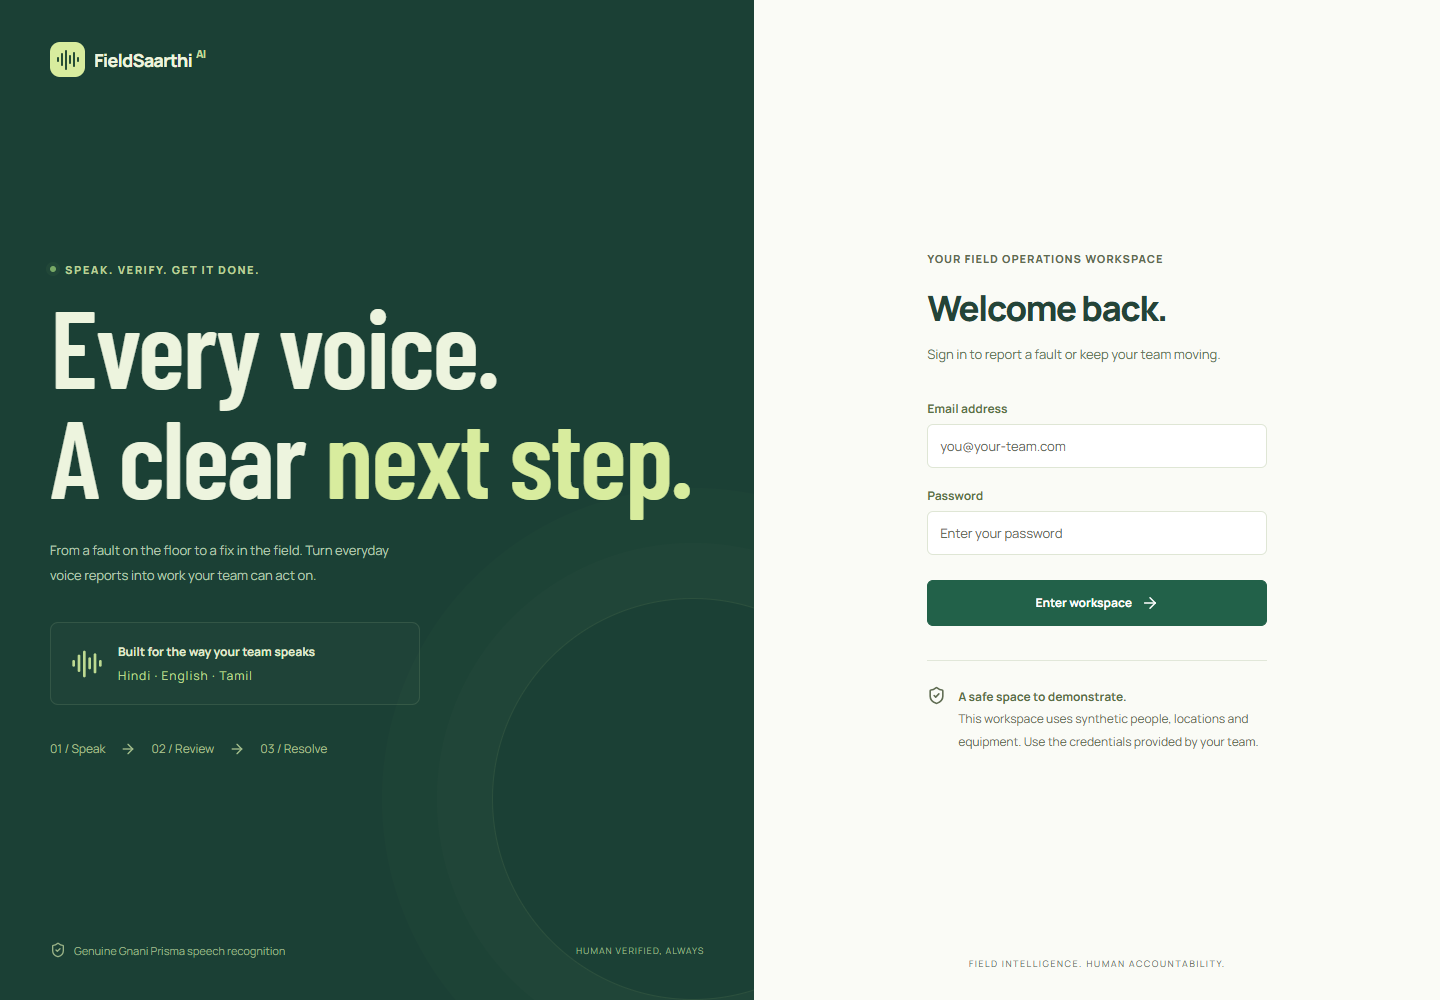
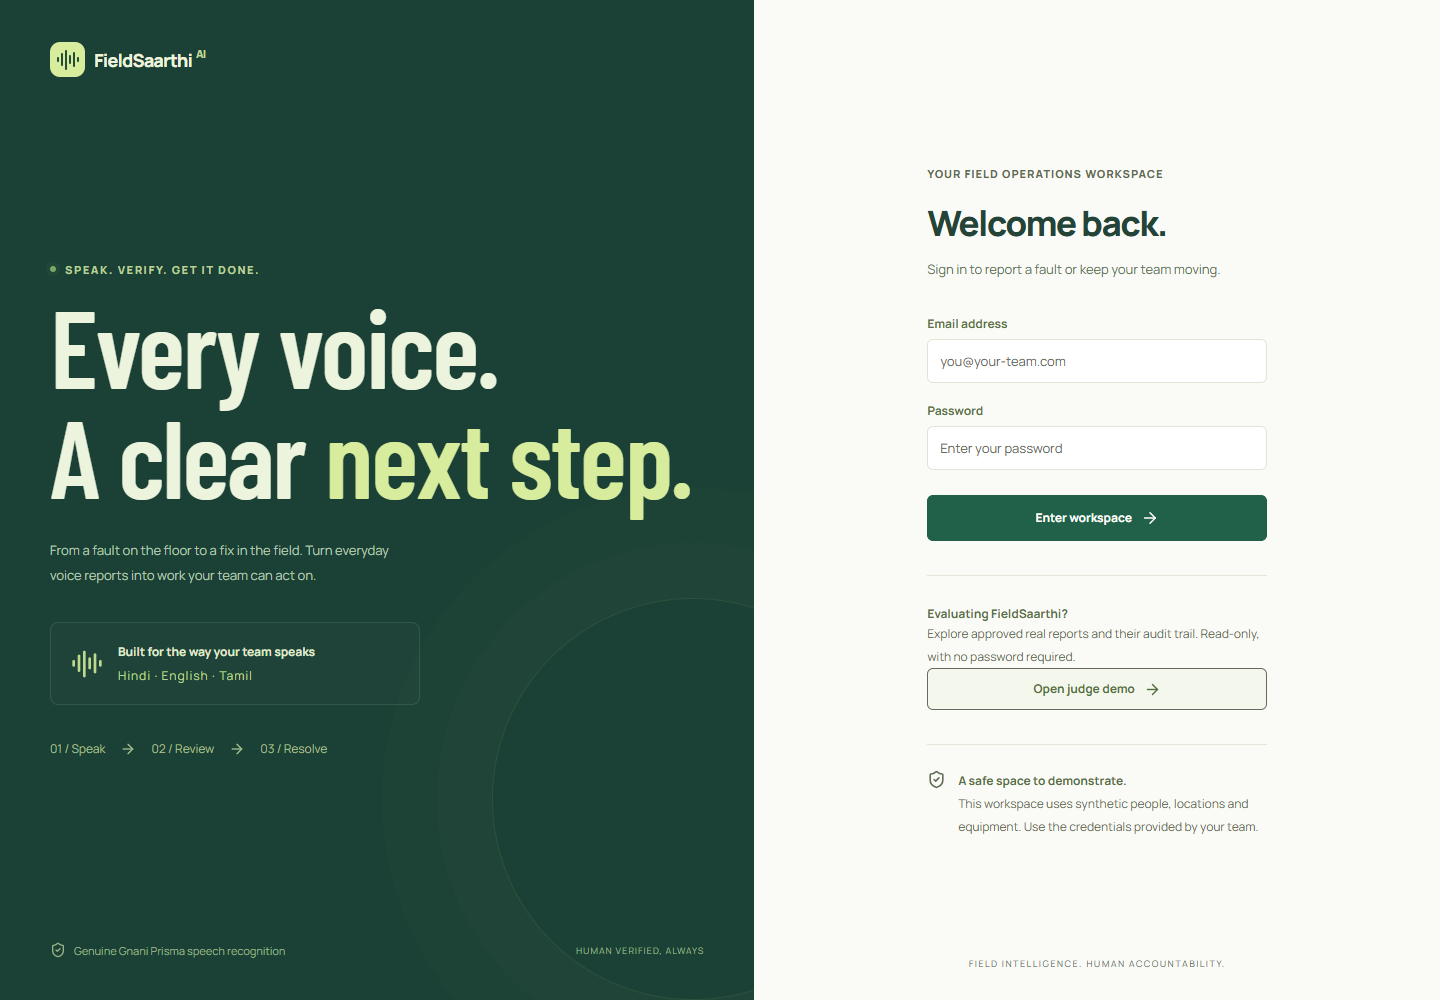
docs(NFR-08): publish measured judge-readiness verification and honest remaining gates

diff --git a/docs/evidence/judge-readiness.md b/docs/evidence/judge-readiness.md
@@ -1,0 +1,56 @@
+# Judge readiness completion evidence
+
+Baseline: e8d6f97, 2026-11-09. The four supplied branches are already ancestors of
+main: docs/human-microphone-proof, docs/render-hosted-proof,
+chore/roadmap-audit-render, feature/complete-fieldsaarthi. No history rewrite or
+duplicate branch merge is needed. New work proceeds through a protected PR.
+
+The original roadmap/audit remain unchanged historical baselines. This completion
+record supersedes their implementation/test-gap observations where evidence below
+exists; it does not turn participant tasks into passed gates.
+
+Implemented: exact source spans/parser version and conservative ambiguity handling;
+MANUAL_TEXT source with no false Gnani metadata and immutable provenance; typed
+OpenAPI response contracts; actionable STT errors; explicit Gnani/retention disclosure;
+priority/location/assignee filters; cancellation reason/audit; stage telemetry;
+exact migration-head readiness; user-approved read-only public judge role and report
+allowlist, with immediate flag-based session revocation.
+
+Verified locally: **159 backend tests**, strict mypy, Ruff lint/format, TypeScript/Vite
+build and frontend lint/Prettier. Backend/frontend dependency audits report no known
+vulnerabilities. The retained six-view accessibility check passes. The new
+[full browser regression](browser-regression/results.json) passes ten axe/layout
+checks at 320/768/1024/1440 widths with no JS errors, testing permission-denied
+guidance, manual source labelling, malicious transcript escaping, explicit
+confirmation, replay, supervisor resolution/refresh and public judge viewing.
+Its speech result is explicitly a test-only fixture; live provider calls: zero.
+
+A fresh local pg_dump → new scratch database restore has matching seven-table
+counts; [result](backup-restore.json). The judge allowlist mutation experiment
+removed its access check, observed the focused test fail, restored exact source
+bytes, and reran the focused tests successfully (2 passed). Independent review
+also found and closed existing-session revocation, stale detail-page state,
+cached-response recovery, safety-score and historical-path scanning defects.
+
+CI now scans all reachable commit history and the index for forbidden private/raw
+media paths and known credential signatures, including merge-resolution paths.
+This bounded scanner supplements review; it does not claim universal secret detection.
+CI also runs the complete non-billable fixture-provider browser workflow and saves
+its evidence as an artifact. Current remote CI/deployment outcomes will be recorded
+after they execute; the previous hosted evidence remains historical proof.
+
+NFR-01 automated test: ten consecutive complete API workflows using test-only
+speech results, genuine decoding/PostgreSQL writes, explicit review/confirmation,
+idempotent replay, supervisor assignment/priority/start/resolution and durable
+read-back. This verifies application reliability under controlled inputs; it is
+not an upstream availability, ASR accuracy or fresh human recording claim.
+
+The user explicitly approved public read-only publication of WO-AFF1E3EE3BD2 and
+authorized bounded paid evaluation/verification requests. Team passwords stay
+private. New reports do not become public automatically.
+
+Still participant-owned: the 15 authentic recordings and reviewed ground truth,
+individual eligibility/contributions, final 2–3 minute video/public post, release
+review and the user-reserved final form. The runner and guide are ready; no audio
+score is claimed until actual recordings have been evaluated. Managed backup and
+30-day database limitations remain explicit; no paid hosting upgrade is assumed.

diff --git a/tasks/todo.md b/tasks/todo.md
@@ -1,4 +1,28 @@
 # Execution status
+
+## Judge-ready implementation update
+
+- [x] FR-04..12: distinct MANUAL_TEXT path, immutable source/provenance, actionable
+  provider errors, disclosure, parser version/exact source spans and conservative ambiguity handling.
+- [x] FR-20..25: priority/location/assignee controls, audited cancellation reason,
+  typed responses and explicitly approved read-only public judge dashboard.
+- [x] NFR-01/03/04/09: ten consecutive controlled API workflows; missing atomicity,
+  same-key race, required-field, failed-intake, token, duplicate, readiness, WebM,
+  TTS, correction immutability and stage-telemetry regression cases.
+- [x] 159 backend tests; frontend build/lint/format; six retained and ten new
+  browser accessibility/layout checks, permission-denied/XSS/complete workflow.
+- [x] Full reachable Git history/index scan, automatic CI browser workflow,
+  fresh private local backup/isolated restore, independent review and mutation check.
+- [x] Authentic 15-recording manifest, resumable genuine-provider runner, recording
+  guide and judge walkthrough prepared. Participant is recording the clips.
+- [ ] Actual 15-recording evaluation and reviewed ground truth.
+- [ ] Current protected PR CI, merged-main CI and new hosted deployment verification.
+- [ ] Participant eligibility/contributions, final video/public post/release review;
+  final official form remains explicitly reserved for the user.
+
+See [current evidence](../docs/evidence/judge-readiness.md). Earlier checklists below
+retain their historical test counts; this update supersedes those implementation gaps.
+
 Full audit on 2026-11-09: [all 94 numbered headings and 64 WBS tasks](../docs/evidence/roadmap-audit.md). The development candidate does **not** satisfy every end-to-end roadmap gate; section-specific implementation/test gaps are recorded there. Existing broad checkmarks below describe development progress and do not override that audit.
 ## WBS-00: Compliance and configuration
 - [x] Official rules/docs checked, P0 baseline frozen, original roadmap/source evidence preserved.

diff --git a/docs/evidence/release-gate.md b/docs/evidence/release-gate.md
@@ -1,4 +1,10 @@
 # Development release evidence - 2026-11-09 IST
+
+Latest completion record: [judge readiness](judge-readiness.md), with 159 passing
+backend tests and explicit closure of the earlier implementation/test gaps.
+The following sections preserve historical checkpoints. Full participant submission
+approval, authentic 15-recording results and free-plan backup limits remain separate.
+
 ## Current full-roadmap audit
 Actual hosting addendum: https://fieldsaarthi-ai.onrender.com is live under Blueprint GNANI. Real hosted prerecorded STT/TTS, browser supervisor workflow, production auth/secret boundaries and controlled restart persistence are verified in [hosted evidence](hosted/README.md). This supersedes the original missing-hosting observation below; a separate fresh human Hindi report is now verified below; authentic 15-clip evaluation and full-roadmap sign-off remain open.
 The [complete audit](roadmap-audit.md) covers every numbered section/subsection and WBS task. Full roadmap sign-off is **HOLD**, with the 15-clip audio evaluation, ten-run reliability, dedicated negative-test, smaller implementation and managed-backup/rollback gaps still open. The candidate tag is not a final submission release. Exact merged-main `8146882` [CI passed](https://github.com/rdx644/FieldSarthi-AI/actions/runs/42527535002). Fresh local recheck: 87 tests passed in 21.97s, backend lint/format/types and frontend lint/format/type/build passed; root/live/ready HTTP 200 after restarting the existing private database/app. No fresh paid Gnani call was made during this audit.

diff --git a/docs/evidence/roadmap-audit.md b/docs/evidence/roadmap-audit.md
@@ -1,5 +1,13 @@
 # Full roadmap conformance audit - 2026-11-09
 
+Latest implementation completion: [judge readiness evidence](judge-readiness.md)
+supersedes the historical implementation/test-gap assessments below. Exact spans,
+manual provenance, queue/cancellation controls, typed responses, disclosure,
+telemetry, missing regression scenarios, automated reliability and CI history/full
+browser gates are now implemented and locally verified. Authentic recordings,
+participant submission and free-plan managed-backup limits remain distinct open gates.
+
+
 Verdict: **PARTIALLY FOLLOWED; complete roadmap/release sign-off is HOLD.** The working development candidate is merged, but development completion is not end-to-end roadmap completion. No unexecuted human speech, hosted run, public post, contribution statement or form submission is claimed. This verdict does not revoke the user's authorization to provision the free Render demo and gather hosted evidence.
 
 Baseline inspected: merged main `8146882af557d46491888a644081d53c485ada13`, tag `v0.2.0-rc.1`. `git fetch origin --prune --tags` and remote main lookup showed `0` ahead / `0` behind. Main's [exact CI run](https://github.com/rdx644/FieldSarthi-AI/actions/runs/42527535002) succeeded, including Linux/browser/audit/Docker. Protection requires quality/PR/conversation resolution and forbids force pushes/deletion.

diff --git a/docs/rtm.md b/docs/rtm.md
@@ -54,3 +54,13 @@ All requirements retained; no fixture success counts as live evidence.
 | NFR-12 | Maintainability | Strict mypy/Ruff, TypeScript build and frontend lint/format; required GitHub quality gate |
 | NFR-13 | Cost awareness | 25s UI/30s decode cap; per-user/global single-process limits; actual console balance remains operator-owned |
 | NFR-14 | Honest representation | Test fixtures confined to tests; real local/hosted provider evidence plus one participant-attested fresh Hindi report with server provenance; no 15-case benchmark, final-video or submitted-form claim |
+# Current completion mapping
+
+The [judge readiness record](evidence/judge-readiness.md) supersedes historical gap
+notes in this matrix. FR-04..12 now include MANUAL_TEXT provenance, exact spans,
+versioned extraction and actionable errors; FR-20..25 include all queue controls,
+audited cancellation and restricted judge access. NFR-01/03/04/09 are additionally
+covered by test_reliability.py, test_roadmap_regressions.py, test_judge_access.py,
+test_stage_telemetry.py, tests/browser/workflow_check.py and repository_guard.py.
+The audio evaluation runner does not pass WBS-07.3 until authentic clips are run.
+

diff --git a/CHANGELOG.md b/CHANGELOG.md
@@ -1,0 +1,21 @@
+# Changelog
+
+## Unreleased — judge evaluation candidate
+
+### Added
+- Password-free read-only judge dashboard for explicitly approved demonstration reports.
+- Accessible typed reporting with clear manual provenance and human confirmation.
+- Exact transcript evidence spans/parser versions and conservative multiple-asset handling.
+- Priority/location/assignee queue controls and required audited cancellation reasons.
+- Resumable authentic-recording evaluation and genuine hosted reliability tools.
+
+### Fixed
+- Judge sessions revoke immediately when public access is disabled.
+- Navigating between order details resets stale order/action state.
+- Provider errors give actionable recovery guidance; no false successful report.
+- Readiness checks the exact migration heads, not only database connectivity.
+
+### Verification
+- Expanded backend, transactional, provider/media, browser, privacy and CI history gates.
+- Genuine recording scores, participant contributions/video/post and final submission
+  remain evidence requirements; no final submission release is declared here.
